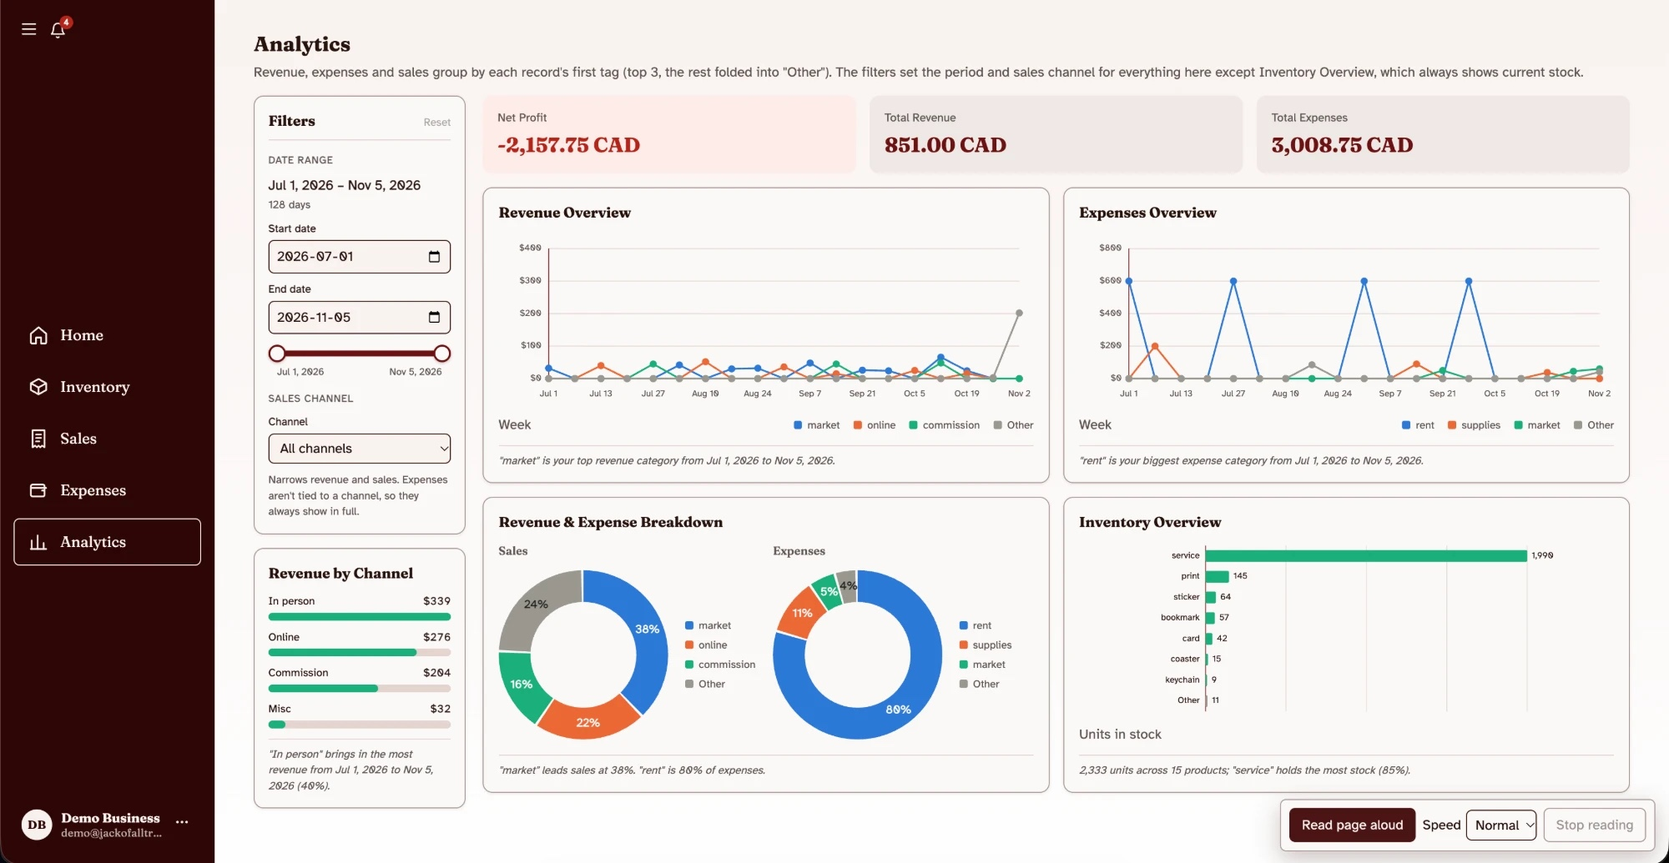
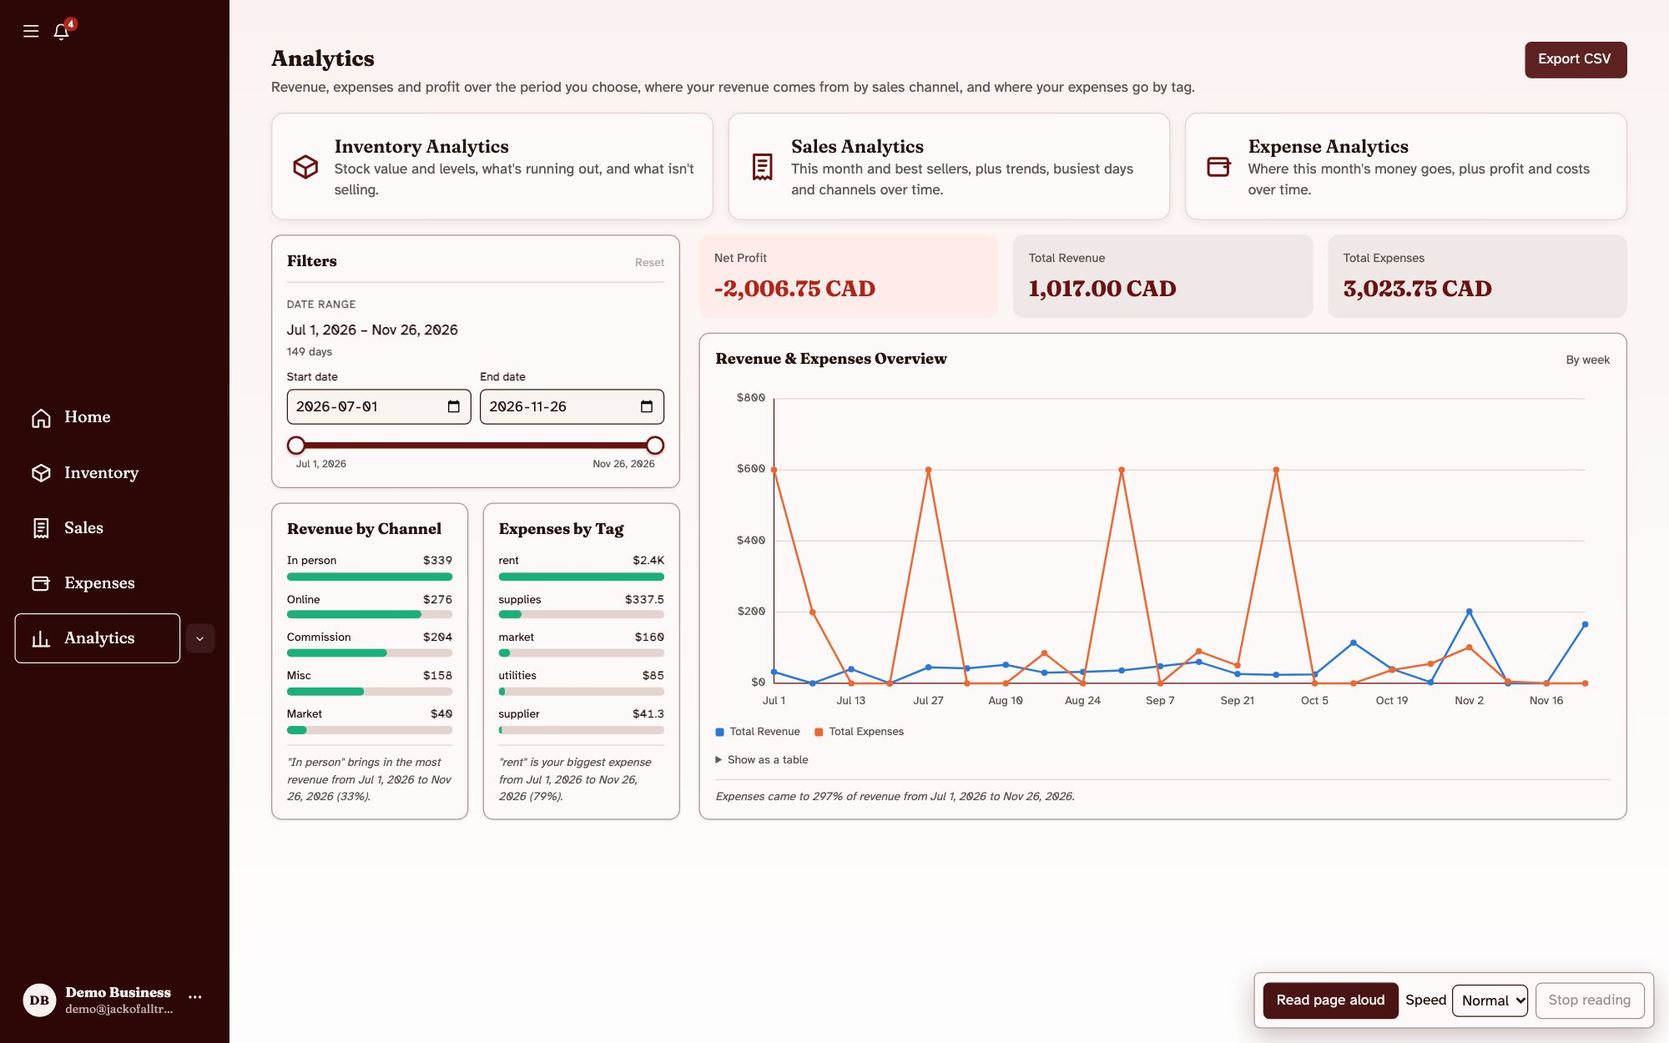
Update the README for D4
Add What's New in D4, a response to D3 feedback, and a Handoff and
Maintenance section. Update the workflows, test counts, API table and
project structure for what's on main, fix the note on where SQL lives,
and retake the Home, Inventory, Sales and Analytics screenshots.

diff --git a/README.md b/README.md
@@ -21,6 +21,29 @@ password: ChangeMe123!
 
 ...or click **Register** to create your own business. Every page only ever shows your own business's data.
 
+## What's New in D4
+
+D4 makes the app ready to hand over. It now runs as two environments: every merge goes to a dev site and only a published release reaches prod. Every pull request is checked by end-to-end browser tests as well as the backend and frontend suites, and every running backend serves interactive API docs (Swagger UI). For owners:
+
+- **Analytics** has a page each for Sales, Expenses and Inventory, with charts. Sales and Expenses can be narrowed to some channels or tags, and every chart has a "Show as a table" view for screen readers ([#36](https://github.com/dakhmedova30/18-Jack-Of-All-Trades/pull/36), [#45](https://github.com/dakhmedova30/18-Jack-Of-All-Trades/pull/45)).
+- **Home** greets the business by name and shows four larger cards: the latest sales and expenses, the best and worst sellers of the last 30 days, and two weeks of revenue ([#46](https://github.com/dakhmedova30/18-Jack-Of-All-Trades/pull/46)).
+- **CSV import and export** for Inventory, Sales and Expenses, and an export for Analytics ([#30](https://github.com/dakhmedova30/18-Jack-Of-All-Trades/pull/30)).
+- **Inventory tag filter**: tick one or more tags to see the items that have any of them ([#41](https://github.com/dakhmedova30/18-Jack-Of-All-Trades/pull/41)).
+- **Alerts show straight away**: the bell updates as soon as a save succeeds, instead of up to 2 minutes later ([#40](https://github.com/dakhmedova30/18-Jack-Of-All-Trades/pull/40)).
+- **Public profile contact**: a public email and an optional phone number for customers ([#44](https://github.com/dakhmedova30/18-Jack-Of-All-Trades/pull/44)).
+- **Read aloud** can skip to the previous or next section ([#37](https://github.com/dakhmedova30/18-Jack-Of-All-Trades/pull/37)).
+
+Behind the scenes: dev and prod environments ([#39](https://github.com/dakhmedova30/18-Jack-Of-All-Trades/pull/39)), a prod URL that also works on the UofT network ([#42](https://github.com/dakhmedova30/18-Jack-Of-All-Trades/pull/42)), end-to-end tests ([#38](https://github.com/dakhmedova30/18-Jack-Of-All-Trades/pull/38)), Swagger UI ([#43](https://github.com/dakhmedova30/18-Jack-Of-All-Trades/pull/43)), and a database that sleeps while nobody uses the app ([#34](https://github.com/dakhmedova30/18-Jack-Of-All-Trades/pull/34)). Taking the project over is covered in [Handoff and Maintenance](#handoff-and-maintenance).
+
+### Response to D3 Feedback
+
+| TA feedback at the D3 demo | What we changed | Where to see it |
+| --- | --- | --- |
+| Notifications should update faster | The bell refetches as soon as any save succeeds, and checks every 30 seconds while the tab is open ([#40](https://github.com/dakhmedova30/18-Jack-Of-All-Trades/pull/40)) | Sell an item down to its low-stock cutoff |
+| Keep the public profile view-only | It stays view-only (no ordering); customers can now contact the business by email or phone ([#44](https://github.com/dakhmedova30/18-Jack-Of-All-Trades/pull/44)) | `/p/<link name>` |
+| Make Analytics more detailed, with more realistic charts | A page each for Sales, Expenses and Inventory with trend charts, channel and tag filters, and new cards such as **Largest expense** and **Tied up in unsold stock** ([#36](https://github.com/dakhmedova30/18-Jack-Of-All-Trades/pull/36), [#45](https://github.com/dakhmedova30/18-Jack-Of-All-Trades/pull/45)) | Analytics in the sidebar |
+| What would stop people using it? | Typing every record by hand: CSV import and export move existing records in and out ([#30](https://github.com/dakhmedova30/18-Jack-Of-All-Trades/pull/30)) | **Import CSV** above Inventory, Sales and Expenses |
+
 ## What's New in D3
 
 D3 turns the dashboards into answers: filter Sales by channel and dates, explore any period of your history on Analytics (date slider, channel filter, Revenue by Channel), and switch Home between the week, month or year. Owners can also set their account currency, see which products aren't selling, and manage their account, channels and alerts in Settings. The full analysis is in the [product evolution report](deliverables/D3/product-evolution.md).
@@ -33,20 +56,25 @@ D3 turns the dashboards into answers: filter Sales by channel and dates, explore
 | Make widgets consistent; show which items are low or not selling | One shared summary card, plus **Low stock** and **Not selling** panels ([#9](https://github.com/dakhmedova30/18-Jack-Of-All-Trades/pull/9), [#22](https://github.com/dakhmedova30/18-Jack-Of-All-Trades/pull/22)) | Analytics > Inventory |
 | Put stock value and low stock, and this month and best sellers, at the top | Moved above the tables ([#9](https://github.com/dakhmedova30/18-Jack-Of-All-Trades/pull/9)); since then they have their own pages under Analytics, so Inventory and Sales open straight to their tables ([#36](https://github.com/dakhmedova30/18-Jack-Of-All-Trades/pull/36)) | Analytics > Inventory, Analytics > Sales |
 | Change the cards' font | Card figures use the heading font ([#9](https://github.com/dakhmedova30/18-Jack-Of-All-Trades/pull/9), [#14](https://github.com/dakhmedova30/18-Jack-Of-All-Trades/pull/14)) | Home, Analytics |
-| Add tests | 237 backend and 56 frontend tests, run on every pull request ([#10](https://github.com/dakhmedova30/18-Jack-Of-All-Trades/pull/10), [#18](https://github.com/dakhmedova30/18-Jack-Of-All-Trades/pull/18)) | [Running tests](#running-tests) |
+| Add tests | 267 backend, 162 frontend and 9 end-to-end browser tests, run on every pull request ([#10](https://github.com/dakhmedova30/18-Jack-Of-All-Trades/pull/10), [#18](https://github.com/dakhmedova30/18-Jack-Of-All-Trades/pull/18), [#38](https://github.com/dakhmedova30/18-Jack-Of-All-Trades/pull/38)) | [Running tests](#running-tests) |
 
 ## Core Workflows (What to Try)
 
 Log in as the demo account, then:
 
-1. **Home:** use **Show** (top right) to switch between the last 7 days, this month, this year and the last 12 months; the tiles and card previews follow. A new account shows "No sales yet this month" instead of bare zeros.
+1. **Home:** use **Show** (top right) to switch the tiles between the last 7 days, this month, this year and the last 12 months. A new account shows "No sales yet this month" instead of bare zeros. Below them, four cards preview each area, each with its period at the top right: the latest sales, the best and worst sellers of the last 30 days, the latest expenses, and the last two weeks of revenue. Click a card to open that page.
 2. **Sales:** click **Add** to record a sale: pick a date, a channel and one or more items. Totals come from each item's price, and stock goes down automatically. Use the **Channel** and date filters above the table to find, for example, last December's Online sales.
-3. **Inventory:** add or edit products, with tags and a note, and search by name or tag.
+3. **Inventory:** add or edit products, with tags and a note, and search by name or tag. Click **Tags** next to the search box and tick one or more tags to show only the items that have any of them.
 4. **Expenses:** click **Add** to record a cost. Each line either restocks a product (its stock goes up) or is a free-text cost such as rent.
-5. **Analytics:** pick any period with the date fields or the slider, and narrow revenue to one channel. **Revenue by Channel** shows where the money comes from; Net Profit shows "—" while a channel is selected, since expenses have no channel. Open **Inventory**, **Sales** or **Expenses** under Analytics in the sidebar for each area's cards: stock value, **Low stock** and **Not selling** (in stock, but no sales this month); this month at a glance and best sellers; and where the money goes and the biggest restock spending.
+5. **Analytics:** pick any period with the date fields or the slider. The page shows Net Profit, revenue and expenses, one chart with both over time, and **Revenue by Channel** and **Expenses by Tag** beside it. Open **Sales**, **Expenses** or **Inventory** (the links at the top, or under Analytics in the sidebar) for more:
+   - **Sales:** this month at a glance and best sellers, then charts of revenue per channel, number of sales, average sale, busiest days and revenue by channel. Tick channels under **Channels** to narrow every chart to them.
+   - **Expenses:** **Spent** (this month against last month), **Largest expense**, where the money goes and the top restock spending, then charts of spending per tag, costs and profit, and restocks against running costs. Tick tags under **Tags** to narrow the charts.
+   - **Inventory:** stock value, **Low stock**, **Not selling** (in stock, but no sales this month) and **Tied up in unsold stock**, then charts of stock levels, stock value by tag, and days of stock left at the last 30 days' pace.
+
+   Every chart has a **Show as a table** view.
 6. **Settings:** change the account **currency** (preview first, then convert prices or only relabel them); rename channels and expense tags and set the low-stock cutoff (Preferences); choose which alerts appear in the bell (Notifications), which updates as soon as you save, e.g. a sale that brings an item down to low stock; and switch the theme or text size (Appearance).
 7. **Public profile:** in Settings > Profile, set a link name (e.g. `demo-shop`) and click **Turn on**, then tick **Show on my public profile** on products (or select several in Inventory and click **Show on profile**). Customers open `/p/demo-shop` with no account. Under **Contact** you can also add a **Public email** and choose to show your phone; customers never see your login email, street address or stock counts, only "In stock" or "Sold out".
-8. **Read aloud:** the bar at the bottom of every page reads it out, one highlighted passage at a time.
+8. **Read aloud:** the bar at the bottom of every page reads it out, one highlighted passage at a time; **Previous section** and **Next section** skip around while it plays.
 
 ### CSV Import and Export
 
@@ -68,21 +96,21 @@ The sample files in `docs/sample-data` contain example channel and item IDs, not
 
 ### Screenshots
 
-**Home:** this month's revenue, expenses, profit and low stock, with the **Show** period choice (top right).
+**Home:** this month's revenue, expenses, profit and low stock, with the **Show** period choice (top right), then the Sales, Inventory, Expenses and Analytics cards.
 
-![Home dashboard with the Show period choice set to This month](docs/screenshots/home.jpg)
+![Home dashboard with this month's tiles and the Sales, Inventory, Expenses and Analytics cards](docs/screenshots/home.jpg)
 
-**Inventory:** stock value, **Low stock** and **Not selling** panels above the product table.
+**Inventory:** CSV import and export, the **Tags** filter and search above the product table.
 
-![Inventory page with the stock value, low stock and not selling panels](docs/screenshots/inventory.jpg)
+![Inventory page with the CSV buttons, Tags filter, search and product table](docs/screenshots/inventory.jpg)
 
-**Sales:** this month at a glance and best sellers, then the channel and date filters above the sales table.
+**Sales:** the channel and date filters and search above the sales table.
 
-![Sales page with summary cards, channel and date filters, and the sales table](docs/screenshots/sales.jpg)
+![Sales page with channel and date filters, search and the sales table](docs/screenshots/sales.jpg)
 
-**Analytics:** the period and channel filters, Revenue by Channel, and the overview charts.
+**Analytics:** links to the Inventory, Sales and Expense pages, the period filter, Revenue by Channel, Expenses by Tag, and revenue and expenses over time.
 
-![Analytics page with date range and channel filters, revenue by channel, and charts](docs/screenshots/analytics.jpg)
+![Analytics page with section links, date filter, revenue by channel, expenses by tag, and the overview chart](docs/screenshots/analytics.jpg)
 
 ## Non-Functional Requirements
 
@@ -136,7 +164,7 @@ The sample files in `docs/sample-data` contain example channel and item IDs, not
 | Backend  | Java 25, Spring Boot 4, Spring Security, Spring Data JPA / `JdbcClient`, Flyway, BCrypt, Maven |
 | Database | PostgreSQL (Neon in production)                                           |
 | Hosting  | Render (two Docker web services: dev and prod), Neon Postgres (one branch each) |
-| Tooling  | ESLint, Prettier (frontend); JUnit 5 + Testcontainers (backend tests)      |
+| Tooling  | ESLint, Prettier, Vitest + React Testing Library (frontend); Playwright (end-to-end); JUnit 5 + Testcontainers (backend tests); springdoc (Swagger UI) |
 
 ### Setup
 
@@ -190,7 +218,7 @@ Backend (run from `backend/`):
 
 ### Running tests
 
-The backend has a JUnit 5 test suite (over 240 tests) covering the API endpoints, input
+The backend has a JUnit 5 test suite (over 260 tests) covering the API endpoints, input
 validation, auth and sessions, and the sales, expense, analytics and notification
 calculations. Tests run against a real PostgreSQL that Testcontainers starts in Docker, so
 there's no database to set up.
@@ -206,9 +234,9 @@ A passing run ends with `Failures: 0, Errors: 0` and `BUILD SUCCESS`. The first 
 Maven dependencies and the Postgres image, so it takes a few minutes; after that it's about a
 minute.
 
-The frontend has a Vitest suite with React Testing Library, covering login and registration,
-protected routes, the inventory, sale and expense forms, Analytics, and the date and money
-helpers. It runs in a simulated browser (jsdom) with the API mocked, so it needs neither
+The frontend has a Vitest suite with React Testing Library (over 160 tests), covering login and
+registration, protected routes, the inventory, sale and expense forms, Home, Analytics and its
+charts, CSV parsing, and the date and money helpers. It runs in a simulated browser (jsdom) with the API mocked, so it needs neither
 Docker nor the backend:
 
 ```bash
@@ -219,7 +247,8 @@ npm test
 The end-to-end tests (`frontend/e2e`, Playwright) drive Chromium through the real app: register,
 log out and back in, pages that need a login, adding an item and selling some (stock goes down,
 and the sale shows on Home and in Analytics), adding an expense, and a sale that brings an item
-to low stock showing in the bell without a reload. Each test registers its own
+to low stock showing in the bell without a reload, the Inventory tag filter, and the channel
+and tag menus on Sales and Expense Analytics. Each test registers its own
 new business, so tests never share data and can run against any database. To run them locally,
 start the backend and the web app as in [Setup](#setup), then:
 
@@ -241,9 +270,11 @@ frontend/
   client/                    React app
     src/api/                 fetch wrappers, one file per resource
     src/components/          shared UI: layout, modal, pagination, icons
-    src/hooks/                data-loading hooks (useItems)
+    src/hooks/                data-loading hooks (useItems, useSales, ...)
     src/pages/                one folder per dashboard
+    src/utils/                money, dates, CSV and other helpers
     src/styles.css            design tokens + styles from the Figma wireframe
+  e2e/                       Playwright end-to-end tests
 backend/                     Java/Spring Boot API
   src/main/java/ca/jackofalltrades/<feature>/   controller -> service -> repository
   src/main/resources/db/migration/              Flyway SQL migrations
@@ -252,9 +283,11 @@ backend/                     Java/Spring Boot API
   render.yaml                                      Render deployment config
 docs/
   api-contracts.md           the API contract the backend implements
+  sample-data/               example CSV files for import
+.github/workflows/ci.yml     CI: checks, tests, and deploys to dev and prod
 ```
 
-Each feature follows the same layers: **controllers** handle HTTP only, **services** hold business rules, **repositories** hold all SQL. A new feature should copy an existing one, e.g. `backend/src/main/java/ca/jackofalltrades/items`, and should be added to `docs/api-contracts.md` to keep it accurate.
+Each feature follows the same layers: **controllers** handle HTTP only, **services** hold business rules, and **repositories** (plus `*Queries` classes for reports) read and write the database. The core features (items, sales, expenses, analytics, public profiles) keep all their SQL there; a few small services (`ChannelService`, `ExpenseTagService`, `NotificationService`, `CurrencyChangeService`, `AccountSecurityService`) run their short queries with `JdbcClient` directly. A new feature should copy an existing one, e.g. `backend/src/main/java/ca/jackofalltrades/items`, and should be added to `docs/api-contracts.md` and tagged for Swagger UI to keep the docs accurate.
 
 ### API
 
@@ -278,7 +311,8 @@ guessing an id in the URL.
 | POST   | `/api/auth/login`        | Log in (`{ email, password }`)             |
 | POST   | `/api/auth/logout`       | Log out                                    |
 | GET    | `/api/auth/me`           | The logged-in business, or 401             |
-| GET    | `/api/items`             | List items (`page`, `pageSize`, `search`)  |
+| GET    | `/api/items`             | List items (`page`, `pageSize`, `search`, repeatable `tag`) |
+| GET    | `/api/items/tags`        | The tags in use, with how many items have each (`PUT`/`DELETE` with `?name=` rename or remove one) |
 | GET    | `/api/items/:id`         | Get one item                               |
 | POST   | `/api/items`             | Create item                                |
 | PATCH  | `/api/items/:id`         | Update some fields of an item              |
@@ -296,7 +330,10 @@ guessing an id in the URL.
 | PATCH  | `/api/expenses/:id`         | Replace an expense's date, tags and lines     |
 | DELETE | `/api/expenses/:id`         | Delete an expense (undoes any restock)        |
 | POST   | `/api/expenses/bulk-delete` | Delete several expenses (`{ "ids": [1, 2] }`) |
-| GET    | `/api/analytics/summary`    | Dashboard totals and charts (`range`, default `12months`) |
+| GET    | `/api/analytics/summary`    | Dashboard totals and charts (`range`, default `12months`, or `from`/`to`) |
+| GET    | `/api/analytics/sales-trends`   | Sales Analytics charts (`from`, `to`, repeatable `channelId`) |
+| GET    | `/api/analytics/expense-trends` | Expense Analytics charts (`from`, `to`, repeatable `tag`) |
+| GET    | `/api/analytics/stock-health`   | Inventory Analytics charts                  |
 | GET    | `/api/public/businesses/:slug`      | A business's public profile and public items (**no login needed**) |
 | GET    | `/api/public/businesses/:slug/logo` | That business's logo (**no login needed**)                   |
 
@@ -363,7 +400,7 @@ Vite reads `frontend/client/.env` by itself when `npm run dev` or `npm run build
 3. Language: **Docker**. Dockerfile Path: `backend/Dockerfile`. Docker Build Context Directory: leave as `.` (the repo root — the Dockerfile needs both `backend/` and `frontend/client/`).
 4. Health Check Path: `/api/health/live` (exactly — a trailing/duplicated path here will make every deploy time out waiting on the health check). Don't use `/api/health`: it queries the database, and Render's checks every few seconds would keep a Neon database awake around the clock and use up its monthly compute hours.
 5. Environment variables: `SPRING_DATASOURCE_URL` (JDBC form, e.g. `jdbc:postgresql://<host>/<db>?sslmode=require`), `SPRING_DATASOURCE_USERNAME`, `SPRING_DATASOURCE_PASSWORD`, and `SPRING_PROFILES_ACTIVE=demo`.
-6. The free instance type's 0.1 CPU is too slow to boot the JVM within Render's health-check window — every free-tier deploy we tried either failed outright or took 15+ minutes. Use the $7/month instance (0.5 CPU), which boots in under a minute.
+6. The free instance type's 0.1 CPU is too slow to boot the JVM within Render's health-check window — every free-tier deploy we tried either failed outright or took 15+ minutes. Use the Starter instance type (0.5 CPU), which boots in under a minute.
 7. Set **Auto-Deploy** to **Off**. Deploys are triggered from GitHub Actions, not by Render
    itself: "Public Git Repository" services don't get webhooks from a repo they don't own, and
    CI should only deploy commits that passed its checks. Copy the service's **Deploy Hook**
@@ -395,6 +432,37 @@ click **Rollback**. It reuses that deploy's build, so it's quick. **Manual Deplo
 Deploy a specific commit** works too, but rebuilds. Publishing a release for an earlier commit
 only deploys commits from after release deploys were added (PR #39), since a release runs the
 workflow file from the tagged commit, and it waits for all of CI first.
+
+## Handoff and Maintenance
+
+### Who owns what
+
+| Piece | What it holds | Owner today | How to take it over |
+| --- | --- | --- | --- |
+| GitHub repo `dakhmedova30/18-Jack-Of-All-Trades` | Code, CI, the two deploy-hook secrets | Team member `dakhmedova30` | The owner transfers it (**Settings > General > Transfer ownership**), or the partner forks it. Either way, check the two secrets under **Settings > Secrets and variables > Actions**. |
+| Render: `jack-of-all-trades-app` (prod) and `jack-of-all-trades-dev` (dev) | The running app | Team member `h-santiago` | The owner invites the partner to the Render workspace, or the partner creates both services with [Deploying to Render](#deploying-to-render). |
+| Neon project `jack-of-all-trades-java`, branches `production` and `dev` | All business data | Team member `h-santiago` | The owner invites the partner to the Neon organization, or the partner creates a new project and copies the data with `pg_dump` / `pg_restore`. |
+
+### Taking over in a new account
+
+1. Get the code: the transferred repo or your fork.
+2. Create a Neon project with a `production` branch and a `dev` branch, and copy each connection string.
+3. Create the two Render services as in [Deploying to Render](#deploying-to-render), each with its own branch's database settings.
+4. Copy each new service's **Deploy Hook** into the repo's Actions secrets: `RENDER_DEPLOY_HOOK_URL` for prod and `RENDER_DEPLOY_HOOK_URL_DEV` for dev. New services get new hooks, so the old secrets stop working. If a hook leaks, click **Regenerate hook** on Render and update the secret.
+5. Merge any small change to `main` and check that the `deploy-dev` job passes and the dev site's `/api/health` returns `"database":"ok"`. Then publish a release to reach prod ([Releasing to prod](#environments-and-releases)).
+6. For real customers, remove `SPRING_PROFILES_ACTIVE=demo` from the prod service and delete the demo account, whose password is public in this README.
+
+### Routine maintenance
+
+- **Is it up?** `GET /api/health` checks the app and the database; `GET /api/health/live` checks only the app. Render emails the workspace when a deploy or health check fails.
+- **Database changes:** add a new Flyway file in `backend/src/main/resources/db/migration` named `V<yyyymmdd>_<n>__<what>.sql`. Never edit one that has already run; Flyway applies new files on the next deploy.
+- **Rotating the database password:** reset it in Neon (**Roles**), then update `SPRING_DATASOURCE_PASSWORD` on the matching Render service (**Environment**) and redeploy it.
+- **Keeping the database asleep when idle:** keep Render's health check on `/api/health/live`, never `/api/health` (see [Deploying to Render](#deploying-to-render)).
+- **Refreshing dev data:** Neon's **Reset from parent** on the `dev` branch copies prod's data over it.
+
+### Next steps
+
+Open pull requests at D4 carry the next features: sales categories, markets, commissions and more expense types ([#32](https://github.com/dakhmedova30/18-Jack-Of-All-Trades/pull/32)); product photos ([#49](https://github.com/dakhmedova30/18-Jack-Of-All-Trades/pull/49)); clearer profile field errors ([#48](https://github.com/dakhmedova30/18-Jack-Of-All-Trades/pull/48)); and a UI polish pass ([#50](https://github.com/dakhmedova30/18-Jack-Of-All-Trades/pull/50)). Each one's review lists what still needs fixing.
 
  ## Deployment and Github Workflow
 
